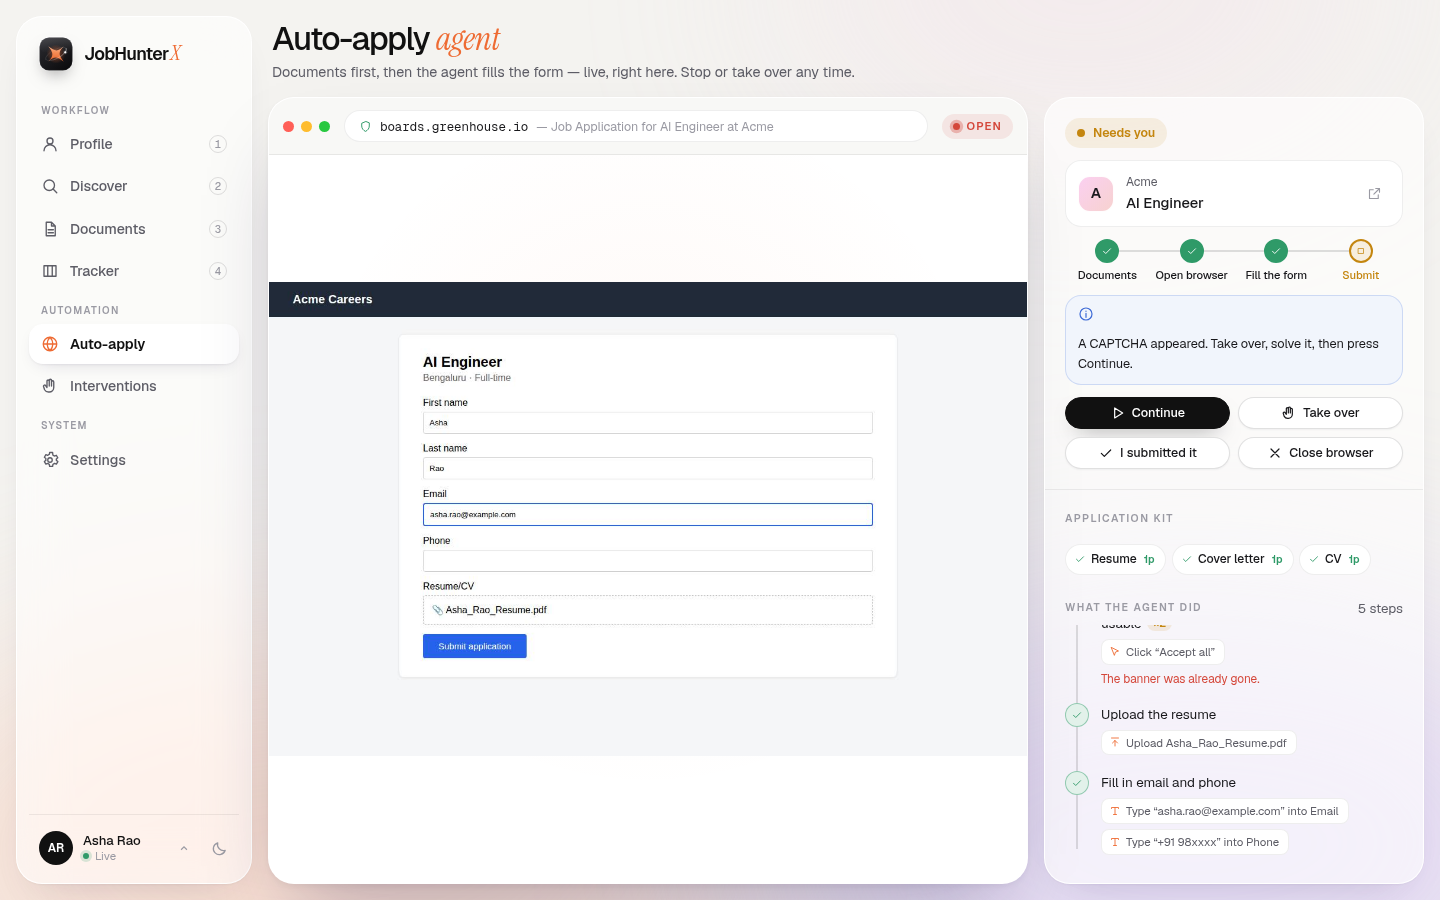
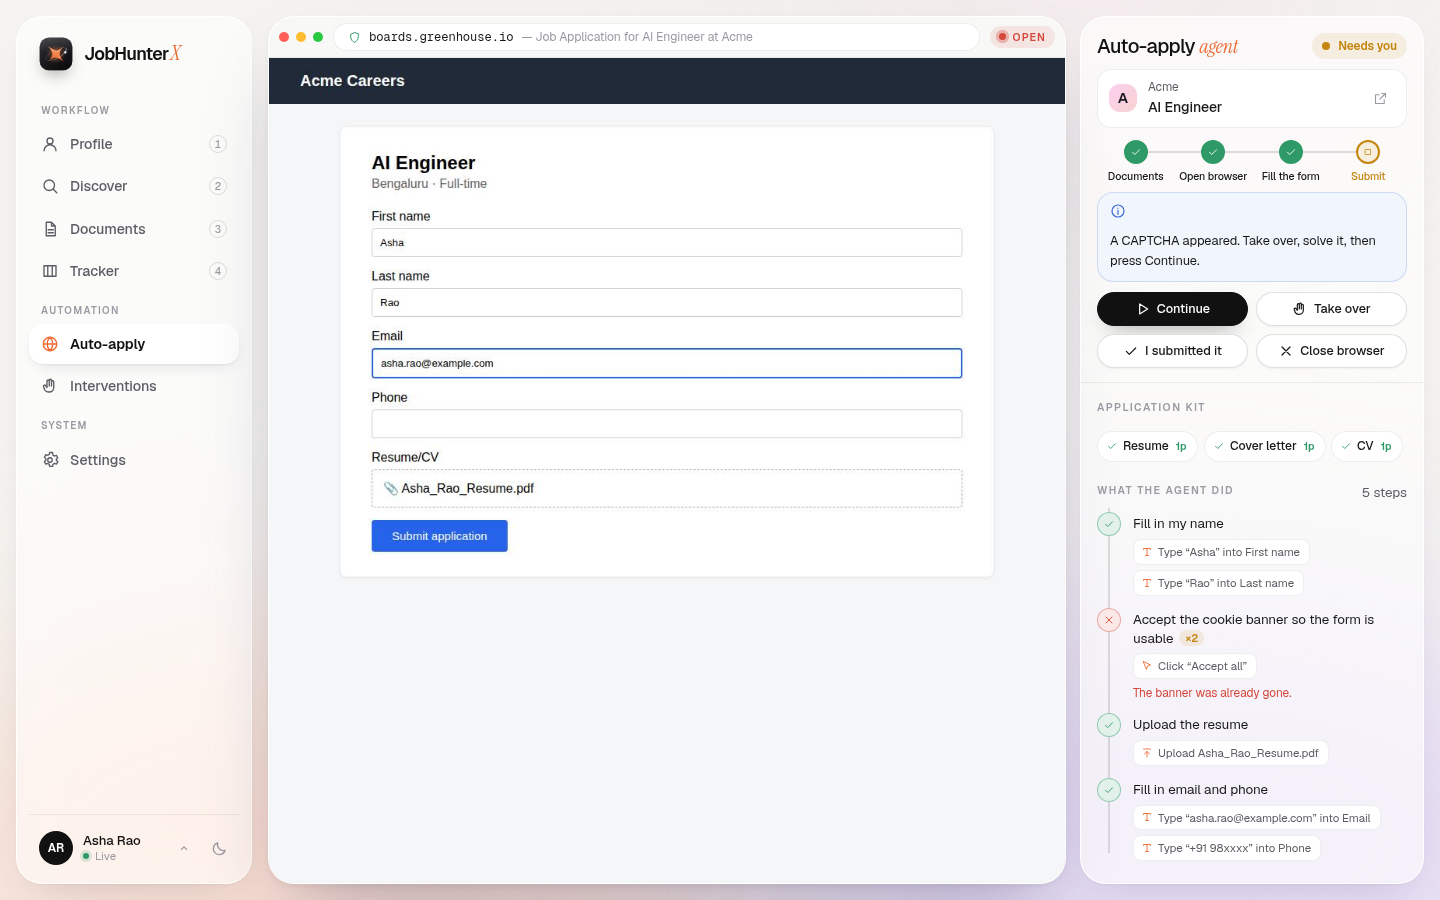
Auto-apply: live view fills its container
- The browser's page size now follows the live-view container's shape (the
  app sends the container size; the browser is resized to match), so the
  stream fills it edge to edge instead of leaving empty bands.
- Page width is kept close to the container width (1024-1280px desktop
  layout), so text in the stream is larger and readable.
- Slimmer address bar, stream pinned to the top, status badges moved to the
  bottom so they never cover the site; the big page header is folded into
  the agent panel to give the stream more height.
- README screenshots refreshed.

Claude-Session: https://claude.ai/code/session_01WFsbeEeBa2PdkHRR67BXba

diff --git a/jobhunterx/jobhunterx/web/js/views/other.js b/jobhunterx/jobhunterx/web/js/views/other.js
@@ -237,7 +237,15 @@ function useLiveFrames(canvas) {
       ctx.drawImage(img, 0, 0); setFrame(true); drawing = false;
       if (pending) { const p = pending; pending = null; drawing = true; img.src = p; }
     };
+    const sendSize = () => {
+      const r = canvas.current && canvas.current.parentElement.getBoundingClientRect();
+      if (r && r.width > 0) sock.current && sock.current.send({ type: 'viewport', w: Math.round(r.width), h: Math.round(r.height) });
+    };
+    let t = 0;
+    const ro = new ResizeObserver(() => { clearTimeout(t); t = setTimeout(sendSize, 350); });
+    ro.observe(canvas.current.parentElement);
     sock.current = new ReconnectingSocket('/ws/browser', {
+      onOpen: sendSize,
       onMessage: (m) => {
         if (m.type === 'idle') { setFrame(false); return; }
         if (m.type !== 'frame' || typeof m.data !== 'string') return;
@@ -247,7 +255,7 @@ function useLiveFrames(canvas) {
       },
     });
     sock.current.connect();
-    return () => sock.current.close();
+    return () => { ro.disconnect(); clearTimeout(t); sock.current.close(); };
   }, []);
   return [frame, (msg) => sock.current && sock.current.send(msg)];
 }
@@ -293,7 +301,7 @@ export function BrowserView() {
   }
 
   return html`<div class="view view-browser">
-    <${PageHead} title=${html`Auto-apply <span class="serif">agent</span>`} sub="Documents first, then the agent fills the form — live, right here. Stop or take over any time." />
+    <h1 class="sr-only">Auto-apply agent</h1>
     <div class="split split-browser">
       <section class=${`pane browser-window ${youDrive ? 'takeover' : ''} ${showFrame && working ? 'is-live' : ''}`} aria-label="Live browser">
         <div class="bw-chrome">
@@ -317,8 +325,7 @@ export function BrowserView() {
             <div class="bw-illus" aria-hidden="true"><${Orb} size=${150} active=${WORKING.includes(status)} done=${status === 'applied'} />
               ${status === 'idle' ? html`<span class="bw-cursor"><svg width="22" height="22" viewBox="0 0 24 24"><path d="M5 3l14 7-6 2-2 6z" fill="#111" stroke="#fff" stroke-width="1.5" stroke-linejoin="round"/></svg></span>` : null}</div>
             ${!sess ? html`<h2>The agent is <span class="serif">resting</span></h2>
-              <p class="muted">Press Auto-apply on any job. You'll see every click and keystroke here — no extra windows.</p>
-              <ol class="bw-how"><li><span>1</span>Open a job in Discover</li><li><span>2</span>Press Auto-apply</li><li><span>3</span>We check & write your resume, letter and CV</li><li><span>4</span>Watch it apply, live</li></ol>
+              <p class="muted">Press Auto-apply on any job. You'll see every click and keystroke right here — no extra windows.</p>
               <${Button} variant="primary" onClick=${() => navigate('#/discover')}>Pick a job <${Icon} name="arrow" size=${16} /></${Button}>`
             : status === 'preparing' ? html`<h2>Getting your <span class="serif">documents</span> ready</h2><p class="muted">${sess.message}</p>`
             : status === 'launching' ? html`<h2>Opening a private <span class="serif">browser</span>…</h2><p class="muted">The live view appears as soon as the page loads.</p>`
@@ -329,19 +336,26 @@ export function BrowserView() {
       </section>
       <aside class="pane card agent-panel" aria-label="Agent">
         <div class="ap-head">
-          <div class="row space"><div class=${`ap-status tone-${meta.tone} ${WORKING.includes(status) ? 'is-working' : ''}`}><span class="ap-dot"></span>${meta.label}</div>
-            ${sess && sess.runs > 1 ? html`<span class="muted small">Run ${sess.runs}</span>` : null}</div>
-          ${sess ? html`<div class="ap-job"><${Monogram} name=${sess.company} size=${36} /><div class="grow"><div class="job-company">${sess.company}</div>
+          <div class="ap-top"><h2 class="ap-title">Auto-apply <span class="serif">agent</span></h2>
+            <div class=${`ap-status tone-${meta.tone} ${WORKING.includes(status) ? 'is-working' : ''}`}><span class="ap-dot"></span>${meta.label}</div></div>
+          ${sess ? html`<div class="ap-job"><${Monogram} name=${sess.company} size=${30} /><div class="grow"><div class="job-company">${sess.company}${sess.runs > 1 ? html` · run ${sess.runs}` : ''}</div>
             <strong>${sess.role}</strong></div>${sess.apply_url ? html`<a class="icon-btn" href=${safeUrl(sess.apply_url)} target="_blank" rel="noopener" title="Open the posting"><${Icon} name="external" size=${15} /></a>` : null}</div>
-            <${PhaseStepper} sess=${sess} />` : html`<p class="muted small">No application yet.</p>`}
+            <${PhaseStepper} sess=${sess} />` : html`<ol class="ap-guide"><li><span>1</span><div><strong>Pick a job</strong><small>Open any job in Discover and press Auto-apply</small></div></li>
+              <li><span>2</span><div><strong>Documents first</strong><small>Resume (1 page), cover letter and CV are checked and written if missing</small></div></li>
+              <li><span>3</span><div><strong>Watch it apply</strong><small>The browser shows here — stop or take over any time</small></div></li></ol>
+              <div class="ap-tips"><span class="sec-title">Good to know</span>
+                <div><${Icon} name="stop" size=${14} /><span><strong>Stop</strong> is instant — every step is saved</span></div>
+                <div><${Icon} name="hand" size=${14} /><span><strong>Take over</strong> for a CAPTCHA, login or tricky field</span></div>
+                <div><${Icon} name="play" size=${14} /><span><strong>Continue</strong> picks up from the last page, even after a restart</span></div>
+                <div><${Icon} name="shield" size=${14} /><span>Nothing is invented — every document is fact-checked</span></div></div>`}
           ${sess && sess.message && WORKING.includes(status) ? html`<div class="ap-now" key=${sess.message}><${Spinner} size=${14} /><span>${sess.message}</span></div>` : null}
           ${sess && sess.notice ? html`<${Notice} tone=${status === 'failed' ? 'warning' : 'info'}>${sess.notice}</${Notice}>` : null}
           ${controls ? html`<div class="ap-controls">${controls}</div>` : null}
           ${waiting && status !== 'needs_you' ? html`<a class="ap-alert" href="#/interventions"><${Icon} name="alert" size=${15} /> ${waiting} application${waiting === 1 ? '' : 's'} waiting for you <${Icon} name="arrow" size=${14} /></a>` : null}
         </div>
         ${sess && sess.kit && Object.keys(sess.kit).length ? html`<div class="ap-sec"><span class="sec-title">Application kit</span><${KitList} kit=${sess.kit} /></div>` : null}
-        <div class="ap-log-head"><span class="sec-title">What the agent did</span><span class="muted small">${steps.length} step${steps.length === 1 ? '' : 's'}</span></div>
-        <${StepLog} steps=${steps} live=${status === 'running'} />
+        ${sess ? html`<div class="ap-log-head"><span class="sec-title">What the agent did</span><span class="muted small">${steps.length} step${steps.length === 1 ? '' : 's'}</span></div>
+        <${StepLog} steps=${steps} live=${status === 'running'} />` : null}
       </aside>
     </div></div>`;
 }

diff --git a/jobhunterx/jobhunterx/web/styles.css b/jobhunterx/jobhunterx/web/styles.css
@@ -1150,3 +1150,49 @@ textarea.input.auto-grow { resize: none; overflow: hidden; min-height: 64px; fie
   .option-cards, .xp-tiles { grid-template-columns: 1fr; }
   .health-list li { grid-template-columns: 12px minmax(0, 1fr); } .health-list li .muted { grid-column: 2; }
 }
+
+/* -------------------------------------------------------------------------- auto-apply: compact, full-height layout */
+.view-browser { gap: 0; }
+.split-browser { grid-template-columns: minmax(0, 1fr) 344px; gap: 14px; height: 100%; }
+.view-browser .bw-chrome { padding: 8px 12px; gap: 12px; }
+.view-browser .bw-url { height: 30px; }
+.view-browser .bw-stage { background: color-mix(in srgb, var(--bg) 70%, var(--card-solid)); }
+.view-browser .bw-stage canvas { object-position: top center; }
+.view-browser .agent-panel .ap-head { padding: 16px 16px 14px; gap: 10px; max-height: none; overflow: visible; }
+.ap-top { display: flex; align-items: center; justify-content: space-between; gap: 10px; }
+.ap-title { font-size: 1.25rem; letter-spacing: -.03em; margin: 0; white-space: nowrap; }
+.ap-top .ap-status { align-self: center; padding: 4px 10px; font-size: .74rem; white-space: nowrap; overflow: hidden; text-overflow: ellipsis; min-width: 0; }
+.view-browser .ap-job { padding: 8px 10px; gap: 10px; border-radius: 14px; }
+.view-browser .ap-job strong { font-size: .88rem; }
+.view-browser .ap-job .job-company { font-size: .74rem; }
+.view-browser .phases { margin-top: 2px; }
+.view-browser .ph-label { font-size: .66rem; }
+.view-browser .ap-now { padding: 8px 10px; font-size: .8rem; }
+.view-browser .ap-controls .btn { min-height: 34px; }
+.view-browser .ap-sec { padding: 10px 16px 2px; gap: 6px; }
+.view-browser .ap-log-head { padding: 12px 16px 0; }
+.view-browser .ap-log { padding: 8px 16px 16px; flex: 1; min-height: 0; overflow-y: auto; }
+.view-browser .step { padding: 6px 0; }
+.ap-guide { list-style: none; margin: 4px 0 0; padding: 0; display: flex; flex-direction: column; gap: 8px; }
+.ap-guide li { display: flex; gap: 10px; align-items: flex-start; padding: 10px 12px; border-radius: 14px; background: var(--card-solid); border: 1px solid var(--line);
+  animation: fadeUp .4s var(--ease) both; }
+.ap-guide li:nth-child(2) { animation-delay: .06s; } .ap-guide li:nth-child(3) { animation-delay: .12s; }
+.ap-guide span { width: 22px; height: 22px; border-radius: 50%; flex: none; display: grid; place-items: center; background: var(--ink); color: var(--on-ink); font-size: .7rem; font-weight: 600; }
+.ap-guide div { display: flex; flex-direction: column; gap: 2px; } .ap-guide strong { font-size: .85rem; font-weight: 600; } .ap-guide small { font-size: .76rem; color: var(--text-3); line-height: 1.35; }
+@media (max-width: 1100px) { .split-browser { grid-template-columns: minmax(0, 1fr) 300px; } }
+@media (max-width: 900px) { .split-browser { grid-template-columns: 1fr; height: auto; } }
+.view-browser .watch-banner { top: auto; bottom: 12px; }
+.ap-tips { display: flex; flex-direction: column; gap: 9px; margin-top: 8px; padding-top: 14px; border-top: 1px solid var(--line); animation: fade .6s .2s both; }
+.ap-tips > div { display: flex; gap: 10px; align-items: flex-start; font-size: .8rem; color: var(--text-2); line-height: 1.4; }
+.ap-tips .icon { color: var(--accent); flex: none; margin-top: 2px; } .ap-tips strong { color: var(--text); font-weight: 600; }
+/* live screencast container: the stream uses every pixel */
+.view-browser .browser-window { overflow: hidden; }
+.view-browser .bw-chrome { padding: 6px 10px; gap: 10px; }
+.view-browser .bw-lights i { width: 10px; height: 10px; }
+.view-browser .bw-url { height: 28px; font-size: .76rem; }
+.view-browser .live-pill { padding: 3px 9px; font-size: .66rem; }
+.view-browser .bw-stage { display: block; }
+.view-browser .bw-stage canvas { position: absolute; inset: 0; width: 100%; height: 100%; object-fit: contain; object-position: top center; image-rendering: auto; }
+.view-browser .watch-banner { top: auto; bottom: 10px; right: 10px; opacity: .85; }
+.view-browser .control-banner { top: auto; bottom: 14px; }
+.view-browser .bw-idle { position: absolute; inset: 0; }

diff --git a/jobhunterx/jobhunterx/agents/live_view.py b/jobhunterx/jobhunterx/agents/live_view.py
@@ -24,6 +24,52 @@ _main_loop: Optional[asyncio.AbstractEventLoop] = None
 _clients: set[Any] = set()
 _latest_frame: Optional[str] = None          # last frame message (JSON) for late joiners
 _frame_meta: dict[str, float] = {}           # deviceWidth / deviceHeight of the last frame
+_panel: tuple[int, int] = (0, 0)             # size of the live-view area in the app (CSS px)
+
+VIEWPORT_WIDTH = 1280                        # desktop layout for every site; the height follows the panel's shape
+
+
+def set_panel(w: Any, h: Any) -> bool:
+    """Remember the live-view area's size. True when the shape changed enough to resize the browser."""
+    global _panel
+    try:
+        w, h = int(w), int(h)
+    except (TypeError, ValueError):
+        return False
+    if w < 200 or h < 200:
+        return False
+    old = _panel
+    _panel = (w, h)
+    if not old[0]:
+        return True
+    return abs(old[1] / old[0] - h / w) > 0.04
+
+
+def viewport_size() -> tuple[int, int]:
+    """Browser viewport with the same shape as the panel, so the picture fills it edge to edge.
+
+    The width stays a desktop width (sites switch to mobile layouts below ~1024px) but is kept
+    close to the panel's width, so text in the live view is shown as large as possible.
+    """
+    w, h = _panel
+    if not w:
+        return VIEWPORT_WIDTH, 900
+    width = max(1024, min(VIEWPORT_WIDTH, round(w * 1.25)))
+    return width, max(600, min(1800, round(width * h / w)))
+
+
+async def apply_viewport(browser_session: Any) -> None:
+    """Resize the open browser to the panel's shape (runs on the worker loop)."""
+    width, height = viewport_size()
+    profile = getattr(browser_session, "browser_profile", None)
+    try:
+        if profile is not None and getattr(profile, "viewport", None) is not None:
+            profile.viewport.width, profile.viewport.height = width, height     # new tabs get it too
+    except Exception:
+        pass
+    cdp = await browser_session.get_or_create_cdp_session(focus=False)
+    await cdp.cdp_client.send.Emulation.setDeviceMetricsOverride(
+        params={"width": width, "height": height, "deviceScaleFactor": 1, "mobile": False}, session_id=cdp.session_id)
 
 
 def bind_main_loop(loop: asyncio.AbstractEventLoop) -> None:
@@ -103,7 +149,7 @@ def frame_size() -> tuple[float, float]:
 class Screencast:
     """Keeps a CDP screencast running on whichever tab the agent is focused on."""
 
-    PARAMS = {"format": "jpeg", "quality": 62, "maxWidth": 1440, "maxHeight": 900, "everyNthFrame": 1}
+    PARAMS = {"format": "jpeg", "quality": 62, "maxWidth": 1280, "maxHeight": 1600, "everyNthFrame": 1}
 
     def __init__(self, browser_session: Any):
         self.session = browser_session

diff --git a/jobhunterx/jobhunterx/agents/browser_agent.py b/jobhunterx/jobhunterx/agents/browser_agent.py
@@ -138,7 +138,7 @@ def _build_stealth_profile(settings: Settings) -> Any:
         headless=not getattr(settings, "browser_show_window", False),
         user_data_dir=resolved_dir,
         user_agent=_STEALTH_USER_AGENT,
-        viewport={"width": 1920, "height": 1080},
+        viewport=dict(zip(("width", "height"), live_view.viewport_size())),   # same shape as the in-app panel
         enable_default_extensions=False,  # DISABLED: extension downloads from Chrome Web Store hang on Windows, blocking CDP
         disable_security=False,
         captcha_solver=False,  # DISABLED: cloud-only feature that adds startup overhead locally
@@ -857,6 +857,19 @@ async def forward_input(msg: dict) -> None:
         await browser_worker.run(live_view.dispatch_input(sess.browser_session, msg))
     except Exception as exc:
         log.debug("live_input_failed", error=str(exc)[:120])
+
+
+async def resize_view(w: Any, h: Any) -> None:
+    """The live-view panel changed size: match the browser's shape to it."""
+    if not live_view.set_panel(w, h):
+        return
+    sess = current_session()
+    if not sess or not _alive(sess):
+        return
+    try:
+        await browser_worker.run(live_view.apply_viewport(sess.browser_session))
+    except Exception as exc:
+        log.debug("live_resize_failed", error=str(exc)[:120])
 
 
 async def stop_all_active_browsers() -> None:

diff --git a/jobhunterx/jobhunterx/api/main.py b/jobhunterx/jobhunterx/api/main.py
@@ -216,8 +216,12 @@ async def browser_websocket(websocket: WebSocket):
                 msg = json.loads(await websocket.receive_text())
             except ValueError:
                 continue
-            if isinstance(msg, dict) and msg.get("type") in ("mouse", "wheel", "keyboard", "paste"):
+            if not isinstance(msg, dict):
+                continue
+            if msg.get("type") in ("mouse", "wheel", "keyboard", "paste"):
                 await ba.forward_input(msg)
+            elif msg.get("type") == "viewport":
+                await ba.resize_view(msg.get("w"), msg.get("h"))
     except (WebSocketDisconnect, asyncio.CancelledError):
         pass
     except Exception as exc:
